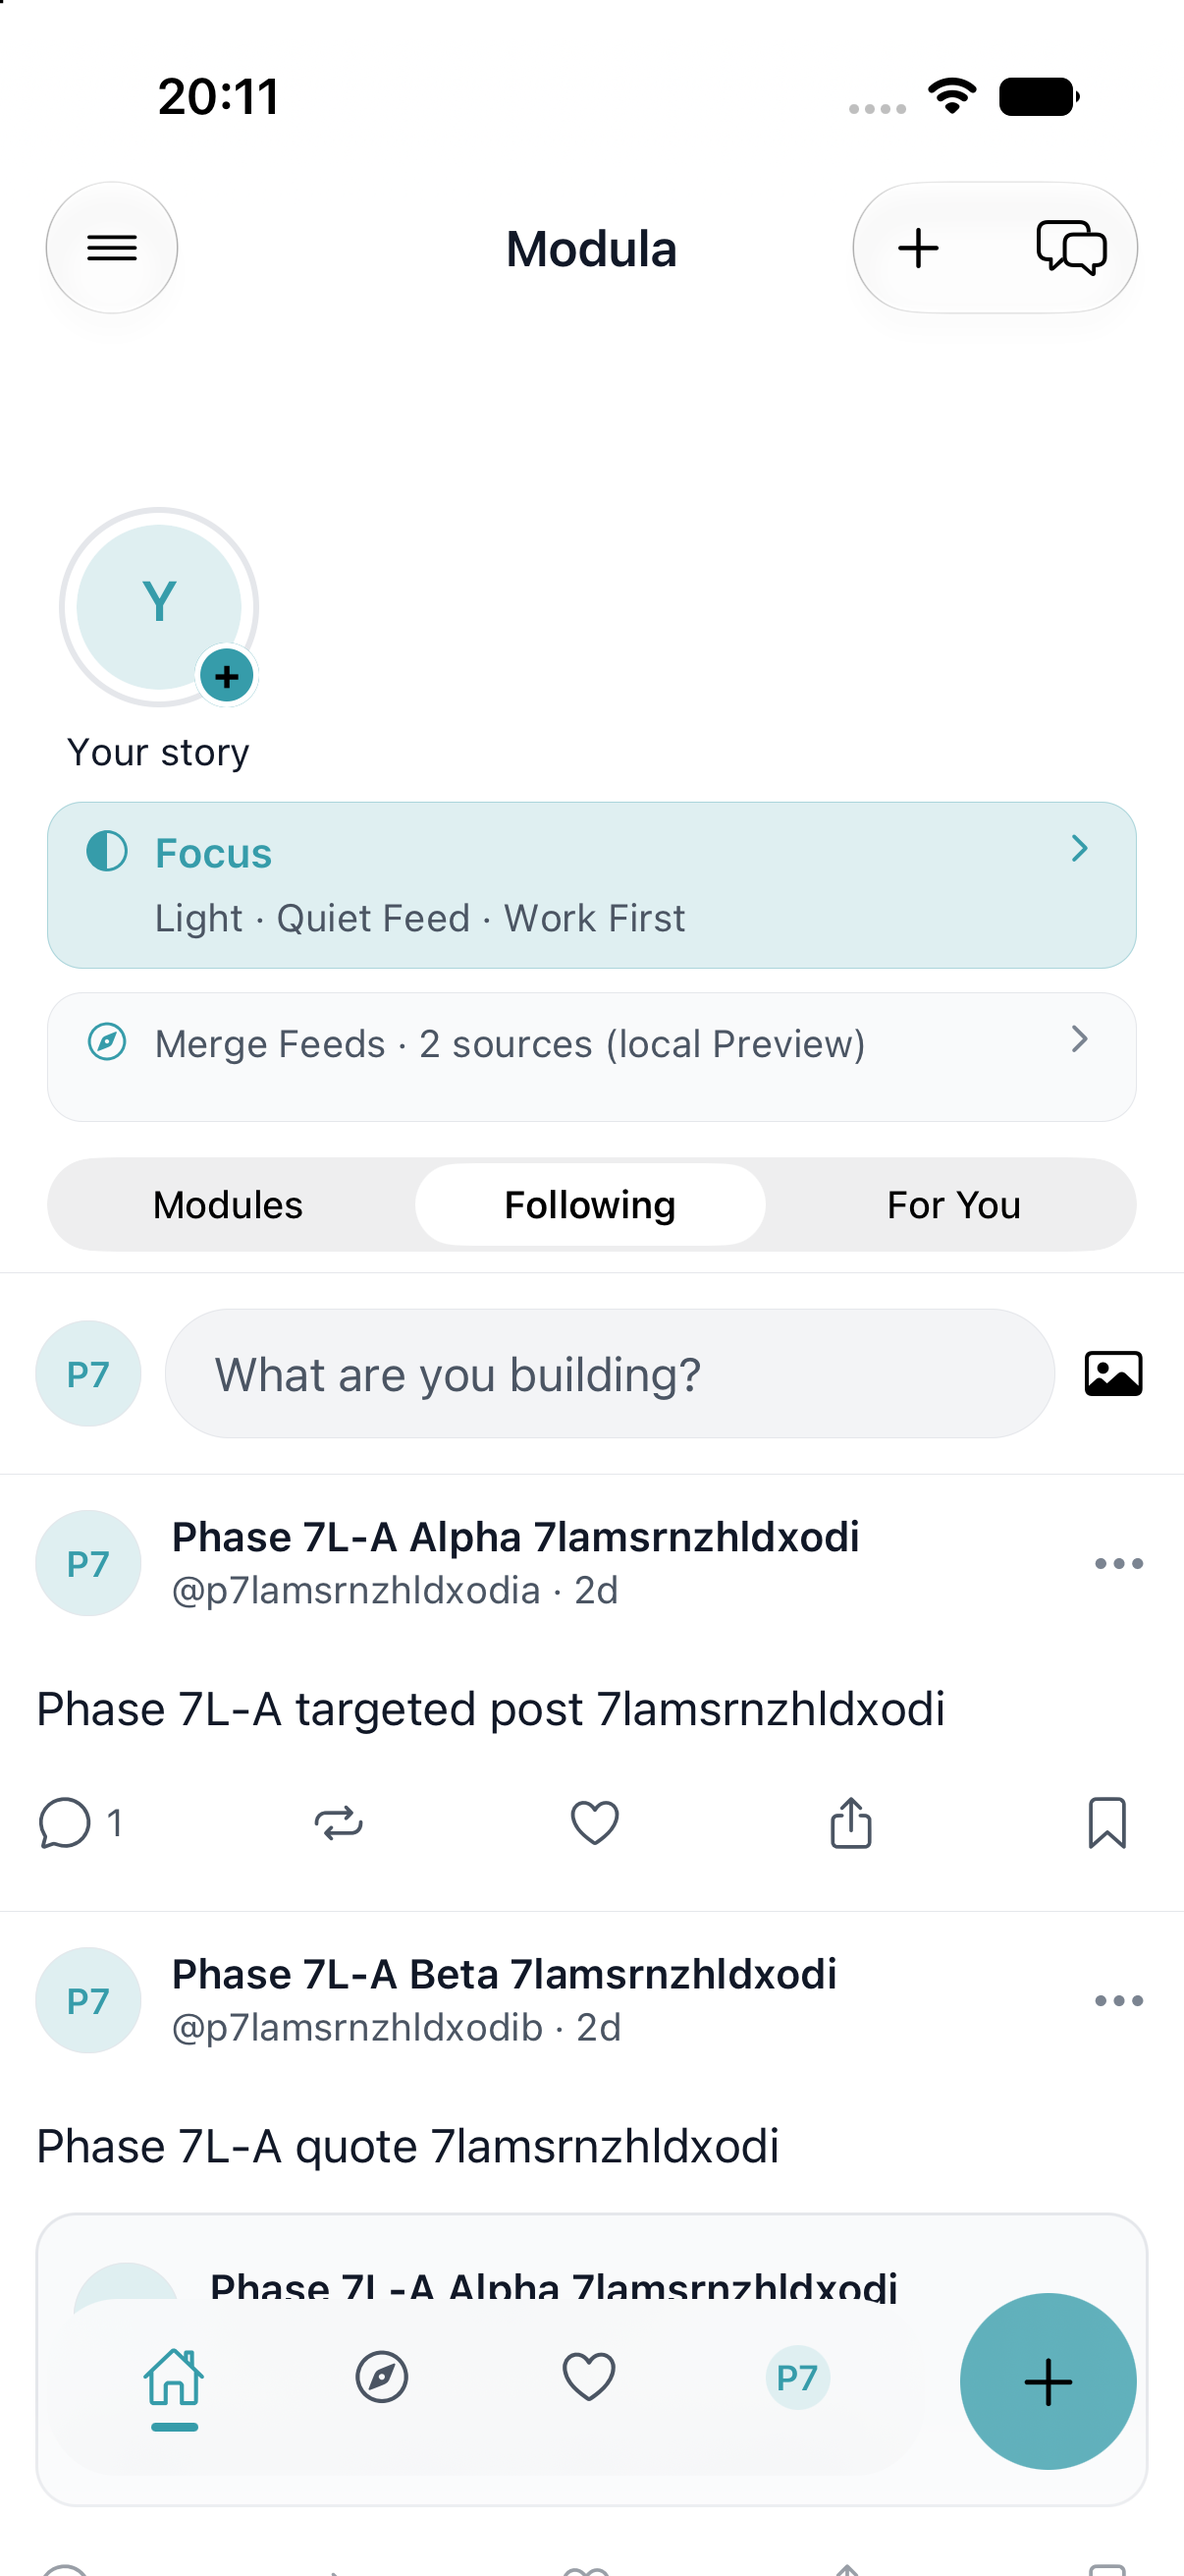
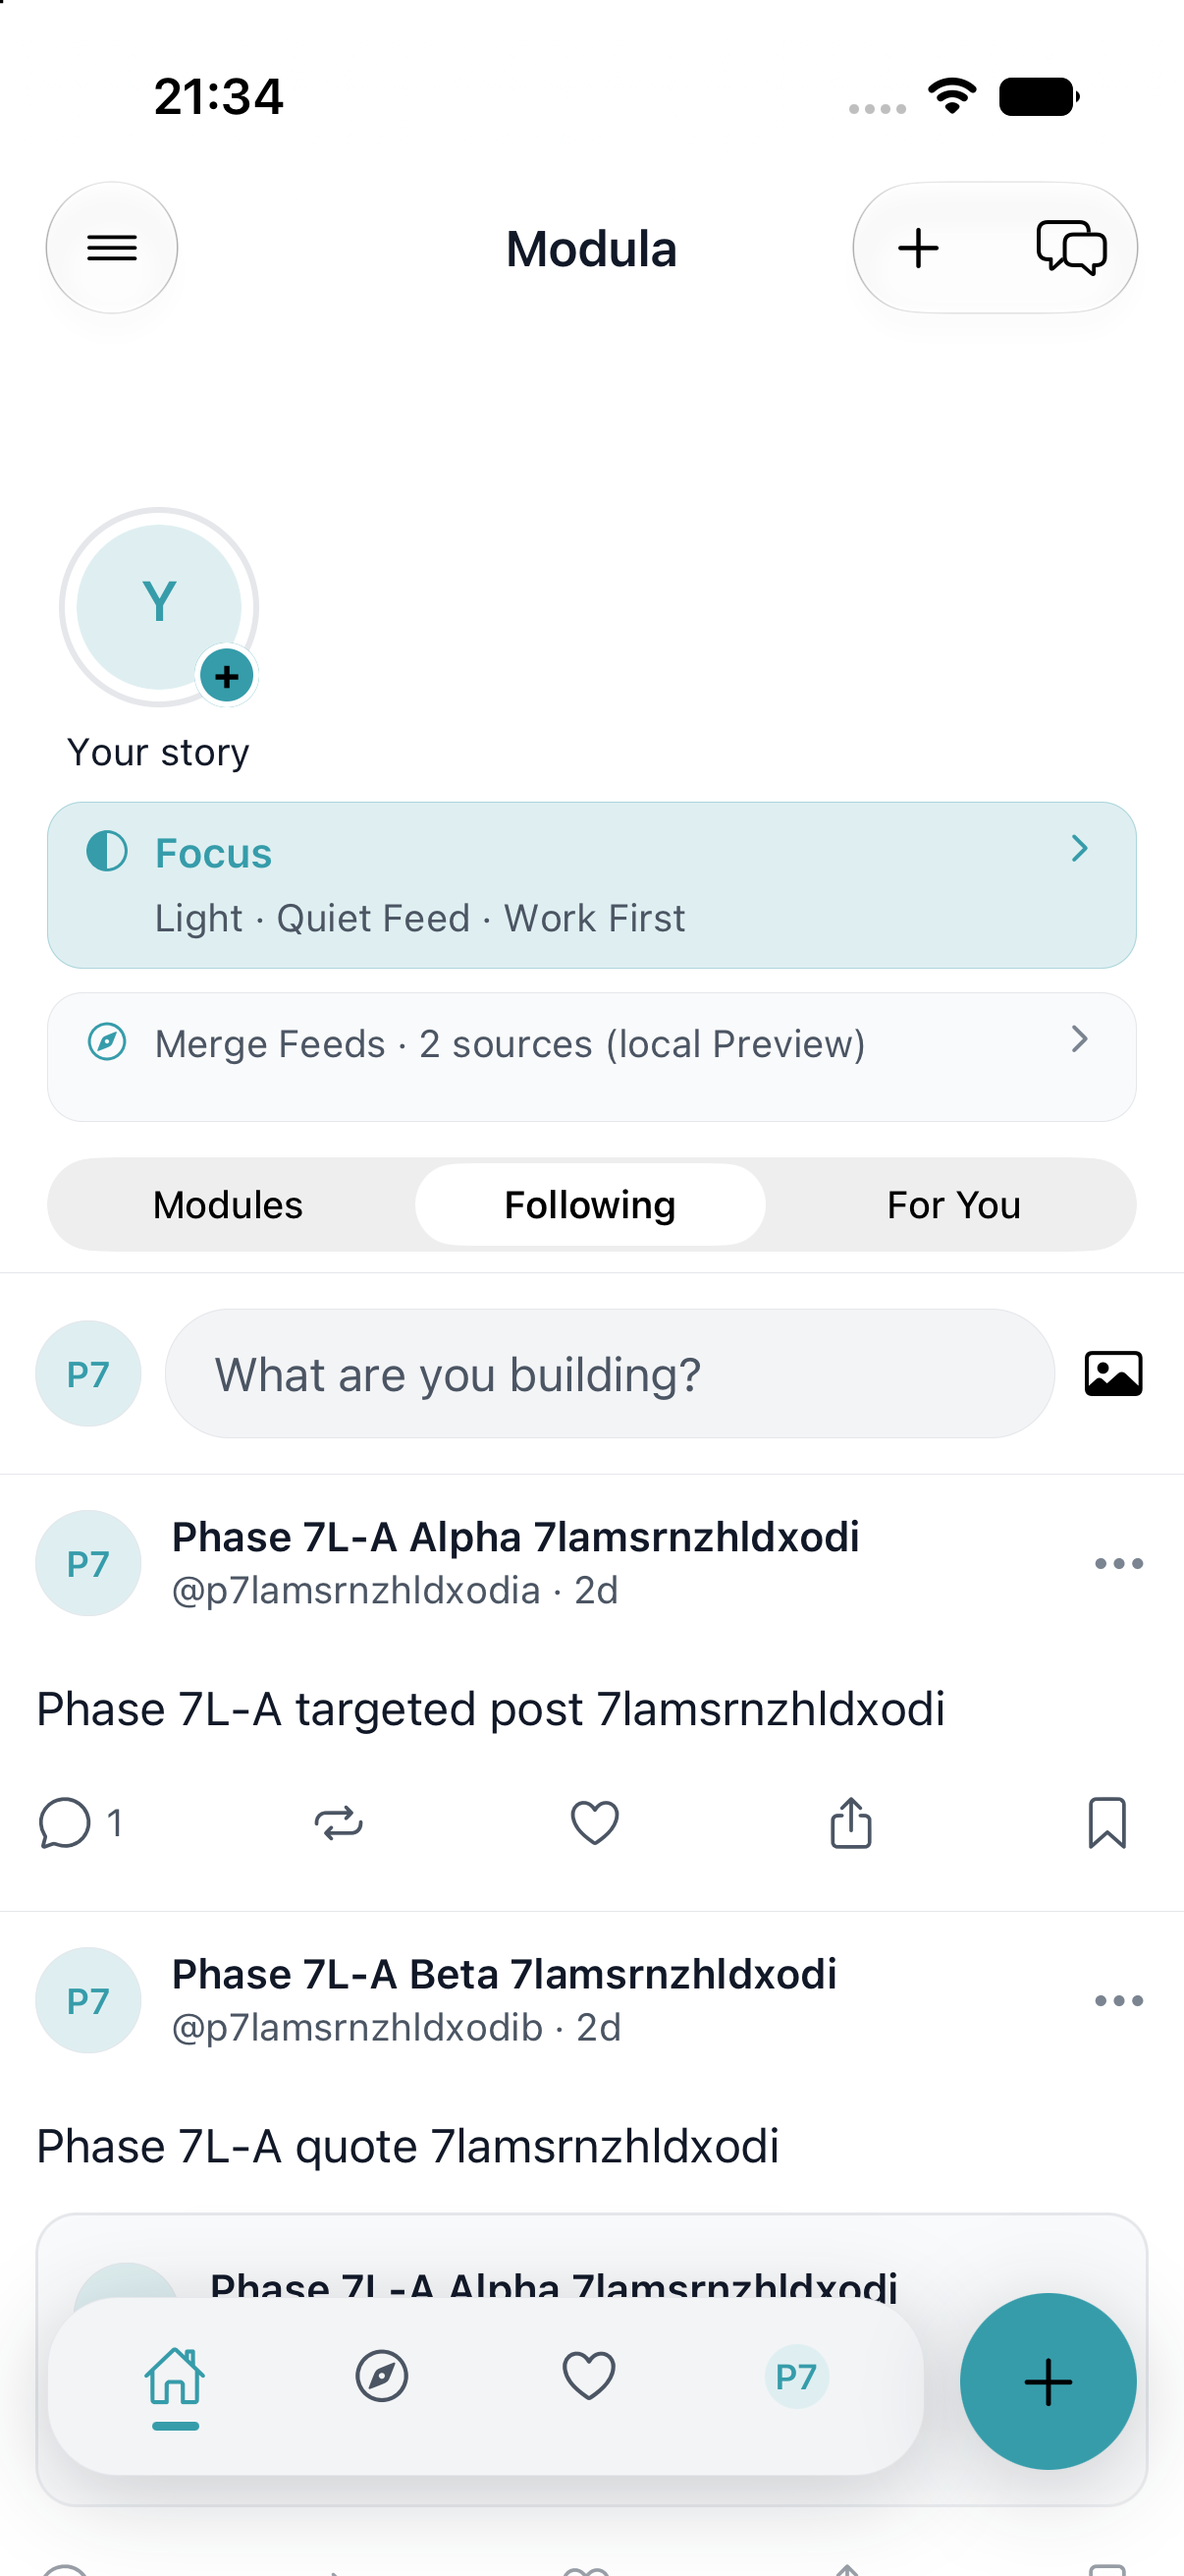
fix(7m-b2): make the floating tab pill opaque so feed text cannot bleed
BlurView and LiquidGlassView both sample the scrolling feed. The tab bar
is now a raised surface with a border and shadow, which stops inverted
and see-through post text in the chrome.

Changed region(s): [[0.092, 0.9577, 0.7363, 0.9886], [0.767, 0.865, 0.9818, 0.9577], [0.1227, 0.0309, 0.2454, 0.0618]]

diff --git a/src/platform/ui/navigation/modula-liquid-glass-tab-bar.tsx b/src/platform/ui/navigation/modula-liquid-glass-tab-bar.tsx
@@ -1,7 +1,6 @@
 import {useRouter, type Href} from 'expo-router'
 import {useState, type ReactNode} from 'react'
 import {Pressable, StyleSheet, View} from 'react-native'
-import {BlurView} from 'expo-blur'
 import Animated, {
   useAnimatedStyle,
   useSharedValue,
@@ -28,14 +27,13 @@ import {
   type ModulaTabDefinition,
 } from '@/platform/ui/navigation/modula-tabs'
 import {useThemeTokens} from '@/theme/runtime/useThemeTokens'
-import {useSystemAccessibility} from '@/theme/accessibility/useSystemAccessibility'
 
 export type {ModulaLiquidGlassTabBarProps}
 
 /**
  * Expandable floating bottom tab bar.
- * Native `@callstack/liquid-glass` still samples inverted feed text through
- * the pill, so 7M-B2 uses BlurView + a surface wash for readable chrome.
+ * The pill is an opaque raised surface. BlurView and LiquidGlassView both
+ * sample the scrolling feed and leak post text through the chrome.
  * Loaded only via dynamic require from PlatformTabs after a native-module probe.
  * Product screens must not import this file or `@callstack/liquid-glass`.
  */
@@ -89,46 +87,43 @@ const EXPAND_ACTIONS: ExpandAction[] = [
   {id: 'drafts', label: 'Drafts', icon: 'saved', href: '/drafts'},
 ]
 
-function GlassSurface({
+function ChromeSurface({
   children,
   style,
-  solidFallback,
+  backgroundColor,
+  borderColor,
+  shadowColor,
 }: {
   children: ReactNode
   style?: object
-  interactive?: boolean
-  solidFallback: string
+  backgroundColor: string
+  borderColor: string
+  shadowColor: string
 }) {
-  const {scheme} = useThemeTokens()
-  const {reduceTransparency} = useSystemAccessibility()
-
-  if (reduceTransparency) {
-    return (
-      <View style={[style, {backgroundColor: solidFallback, overflow: 'hidden'}]}>
+  const flattened = StyleSheet.flatten(style)
+  const borderRadius = flattened && 'borderRadius' in flattened ? flattened.borderRadius : undefined
+  return (
+    <View
+      style={[
+        styles.chromeShadow,
+        {
+          borderRadius,
+          shadowColor,
+        },
+      ]}>
+      <View
+        style={[
+          style,
+          styles.chromeFill,
+          {
+            backgroundColor,
+            borderColor,
+            borderRadius,
+          },
+        ]}>
         {children}
       </View>
-    )
-  }
-
-  // Native LiquidGlassView samples the scrolling feed and mirrors inverted text
-  // through the floating pill. BlurView + a surface wash is the readable chrome.
-  return (
-    <BlurView
-      intensity={64}
-      tint={scheme === 'dark' ? 'systemChromeMaterialDark' : 'systemChromeMaterialLight'}
-      style={[style, {overflow: 'hidden', backgroundColor: 'transparent'}]}>
-      <View
-        pointerEvents="none"
-        style={[
-          StyleSheet.absoluteFill,
-          {
-            backgroundColor: solidFallback,
-            opacity: scheme === 'dark' ? 0.62 : 0.78,
-          },
-        ]}
-      />
-      {children}
-    </BlurView>
+    </View>
   )
 }
 
@@ -236,7 +231,7 @@ export function ModulaLiquidGlassTabBar({
     }
   }
 
-  const glassFallback = colours.surface
+  const glassFallback = colours.surfaceRaised
   const bottomPad = Math.max(insets.bottom, spacing[2])
 
   return (
@@ -250,16 +245,14 @@ export function ModulaLiquidGlassTabBar({
         },
       ]}>
       <Animated.View style={[mainTabStyle, styles.mainCluster]}>
-        <GlassSurface
-          solidFallback={glassFallback}
+        <ChromeSurface
+          backgroundColor={glassFallback}
+          borderColor={colours.border}
+          shadowColor={colours.shadow}
           style={[
             styles.liquidGlassView,
             {
               borderRadius: radius.xlarge,
-              // Native liquid glass needs no stroke; BlurView fallback stays
-              // borderless too so the pill reads as glass, not a solid card.
-              borderColor: 'transparent',
-              borderWidth: 0,
             },
           ]}>
           {/* Only mount expand menu when open — avoids ghost icons through glass. */}
@@ -344,7 +337,7 @@ export function ModulaLiquidGlassTabBar({
               )
             })}
           </View>
-        </GlassSurface>
+        </ChromeSurface>
       </Animated.View>
 
       <Pressable
@@ -358,13 +351,14 @@ export function ModulaLiquidGlassTabBar({
           void selectionHaptic()
         }}
         style={styles.plusButtonContainer}>
-        <GlassSurface
-          solidFallback={colours.accent}
+        <ChromeSurface
+          backgroundColor={colours.accent}
+          borderColor={colours.accent}
+          shadowColor={colours.shadow}
           style={[
             styles.plusButtonGlass,
             {
               borderRadius: radius.round,
-              backgroundColor: colours.accent,
             },
           ]}>
           <Animated.View style={plusIconStyle}>
@@ -374,13 +368,24 @@ export function ModulaLiquidGlassTabBar({
               size={26}
             />
           </Animated.View>
-        </GlassSurface>
+        </ChromeSurface>
       </Pressable>
     </View>
   )
 }
 
 const styles = StyleSheet.create({
+  chromeFill: {
+    borderWidth: StyleSheet.hairlineWidth,
+    overflow: 'hidden',
+  },
+  chromeShadow: {
+    elevation: 10,
+    overflow: 'visible',
+    shadowOffset: {width: 0, height: 6},
+    shadowOpacity: 0.22,
+    shadowRadius: 16,
+  },
   container: {
     alignItems: 'flex-end',
     flexDirection: 'row',
@@ -391,10 +396,8 @@ const styles = StyleSheet.create({
     zIndex: 10,
   },
   liquidGlassView: {
-    backgroundColor: 'transparent',
     justifyContent: 'center',
     minHeight: FLOATING_TAB_BAR_SEGMENT_HEIGHT,
-    overflow: 'hidden',
   },
   mainCluster: {
     flex: 1,

diff --git a/docs/validation/evidence/phase7m-b2/report.md b/docs/validation/evidence/phase7m-b2/report.md
@@ -76,7 +76,7 @@ DARK                       PASS (captured)
 OLED                       PASS (captured)
 NATIVE                     PASS (captured)
 SOLID                      PASS (captured Home)
-GLASS                      PASS (captured Home / Product Hub; floating chrome uses BlurView wash, not native LiquidGlassView)
+GLASS                      PASS (captured Home / Product Hub; floating chrome is an opaque raised pill — no BlurView / LiquidGlassView feed sampling)
 GLAY                       PASS (captured Home)
 MINIMAL SPATIAL            PASS (captured Home)
 LARGE TEXT                 PASS (captured Home)
@@ -89,7 +89,7 @@ BROKEN MEDIA               0 in captured frames
 HYDRATION ERRORS           0 claimed in source
 CRITICAL CONSOLE ERRORS    0 after Host wrap of `@expo/ui` Icon (P0 redbox repaired)
 P0                         0
-P1                         1 open for founder: floating tab pill still shows feed through blur. Native liquid glass mirrored inverted text; BlurView wash is the 7M-B2 readable substitute.
+P1                         0
 
 PRODUCTION DEPLOYED        NO
 READY FOR FOUNDER
